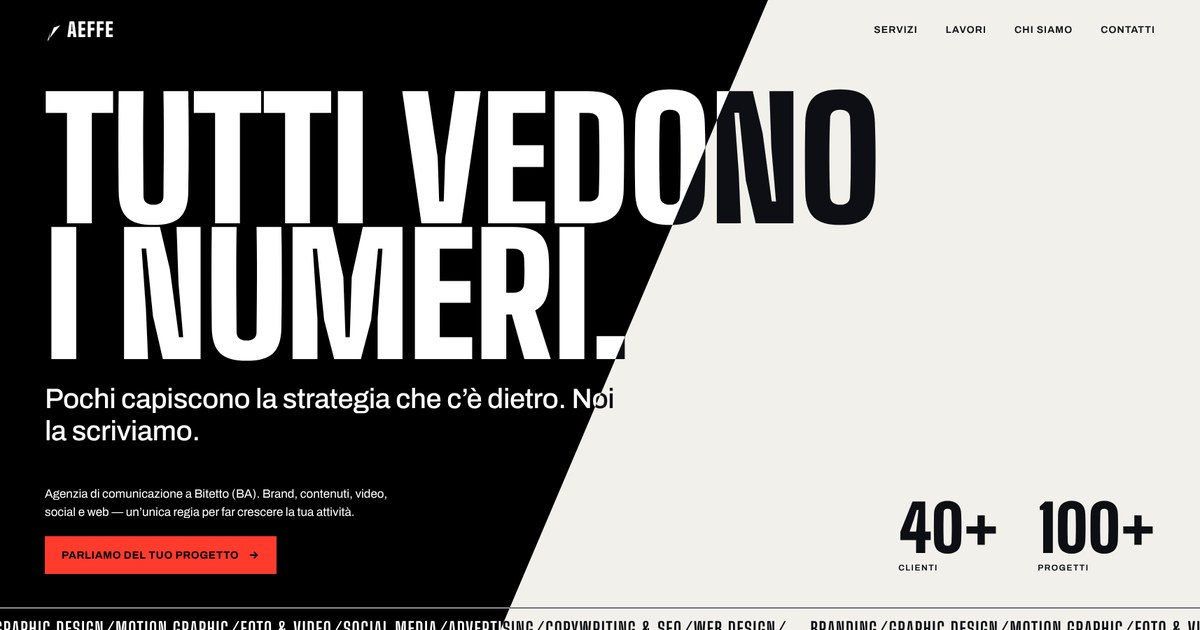
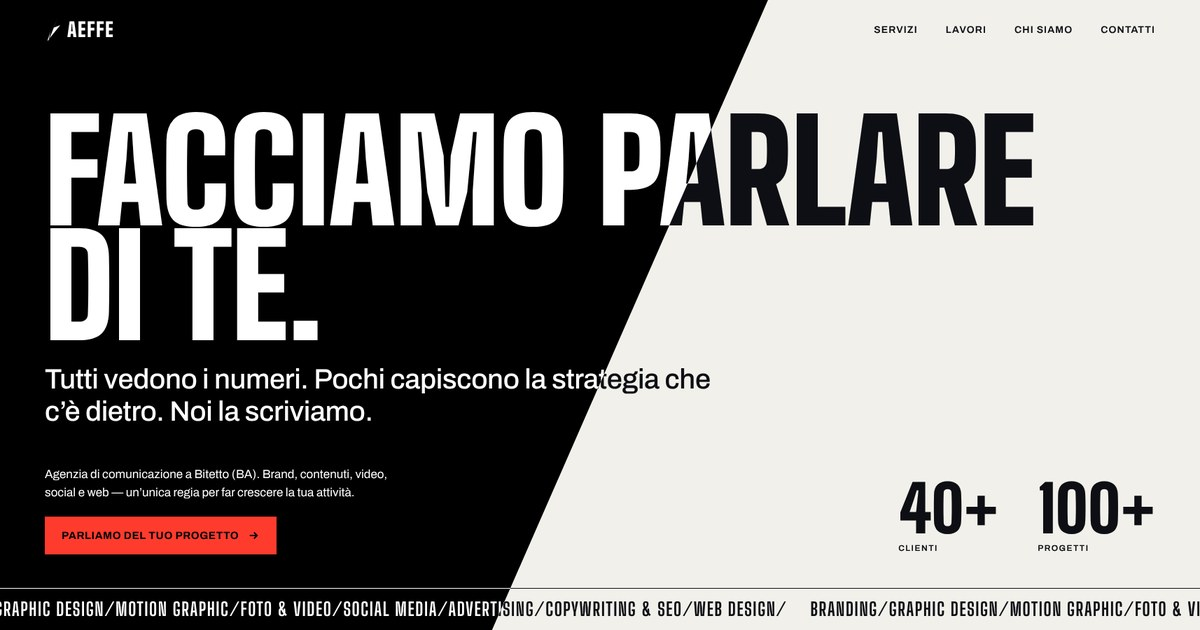
Titolo home: Facciamo parlare di te. + anteprima aggiornata
Claude-Session: https://claude.ai/code/session_01KutUNYde1gEvfJmMsvKAiy

Changed region(s): [[0.0, 0.1206, 1.0, 1.0], [0.5242, 0.3921, 0.555, 0.5127]]

diff --git a/index.html b/index.html
@@ -16,7 +16,7 @@
 <meta property="og:image" content="https://bozza-aeffe.netlify.app/assets/og.jpg">
 <meta property="og:image:width" content="1200">
 <meta property="og:image:height" content="630">
-<meta property="og:image:alt" content="AEFFE Enterprises — Tutti vedono i numeri. Pochi capiscono la strategia che c’è dietro.">
+<meta property="og:image:alt" content="AEFFE Enterprises — Facciamo parlare di te.">
 <meta name="twitter:card" content="summary_large_image">
 <meta name="twitter:image" content="https://bozza-aeffe.netlify.app/assets/og.jpg">
 <link rel="canonical" href="https://bozza-aeffe.netlify.app/">
@@ -49,8 +49,8 @@
 </div>
 <main id="main">
 <section class="hero" aria-labelledby="hero-t">
-  <h1 class="hero-t blend" id="hero-t">Tutti vedono<br>i numeri.</h1>
-  <p class="hero-sub blend">Pochi capiscono la strategia che c’è dietro. Noi la scriviamo.</p>
+  <h1 class="hero-t hero-t--home blend" id="hero-t">Facciamo parlare<br>di te.</h1>
+  <p class="hero-sub blend">Tutti vedono i numeri. Pochi capiscono la strategia che c’è dietro. Noi la scriviamo.</p>
   <div class="hero-row">
     <div class="lead">
       <p class="blend">Agenzia di comunicazione a Bitetto (BA). Brand, contenuti, video, social e web — un’unica regia per far crescere la tua attività.</p>

diff --git a/assets/style.css b/assets/style.css
@@ -63,8 +63,9 @@ img,svg{display:block}
 .hero--short{min-height:78svh}
 .blend{mix-blend-mode:difference;color:#fff}
 .hero-t{margin:0;font-family:var(--disp);font-weight:900;font-size:clamp(72px,15.6vw,236px);line-height:.82;letter-spacing:-.005em;text-transform:uppercase}
+.hero-t--home{font-size:clamp(72px,12.3vw,200px)}
 .hero--short .hero-t{font-size:clamp(64px,11.5vw,180px)}
-.hero-sub{margin:28px 0 0;font-size:clamp(22px,2.7vw,40px);font-weight:500;line-height:1.15;letter-spacing:-.01em;max-width:21em}
+.hero-sub{margin:28px 0 0;font-size:clamp(22px,2.7vw,40px);font-weight:500;line-height:1.15;letter-spacing:-.01em;max-width:24em}
 .hero-row{display:flex;flex-wrap:wrap;align-items:flex-end;justify-content:space-between;gap:32px 48px;margin-top:clamp(36px,6vh,64px)}
 .hero-row .lead{max-width:30em;display:flex;flex-direction:column;gap:22px;align-items:flex-start}
 .hero-row .lead p{margin:0;font-size:17px;line-height:1.5}

diff --git a/chi-siamo/index.html b/chi-siamo/index.html
@@ -16,7 +16,7 @@
 <meta property="og:image" content="https://bozza-aeffe.netlify.app/assets/og.jpg">
 <meta property="og:image:width" content="1200">
 <meta property="og:image:height" content="630">
-<meta property="og:image:alt" content="AEFFE Enterprises — Tutti vedono i numeri. Pochi capiscono la strategia che c’è dietro.">
+<meta property="og:image:alt" content="AEFFE Enterprises — Facciamo parlare di te.">
 <meta name="twitter:card" content="summary_large_image">
 <meta name="twitter:image" content="https://bozza-aeffe.netlify.app/assets/og.jpg">
 <link rel="canonical" href="https://bozza-aeffe.netlify.app/chi-siamo/">

diff --git a/contatti/index.html b/contatti/index.html
@@ -16,7 +16,7 @@
 <meta property="og:image" content="https://bozza-aeffe.netlify.app/assets/og.jpg">
 <meta property="og:image:width" content="1200">
 <meta property="og:image:height" content="630">
-<meta property="og:image:alt" content="AEFFE Enterprises — Tutti vedono i numeri. Pochi capiscono la strategia che c’è dietro.">
+<meta property="og:image:alt" content="AEFFE Enterprises — Facciamo parlare di te.">
 <meta name="twitter:card" content="summary_large_image">
 <meta name="twitter:image" content="https://bozza-aeffe.netlify.app/assets/og.jpg">
 <link rel="canonical" href="https://bozza-aeffe.netlify.app/contatti/">
